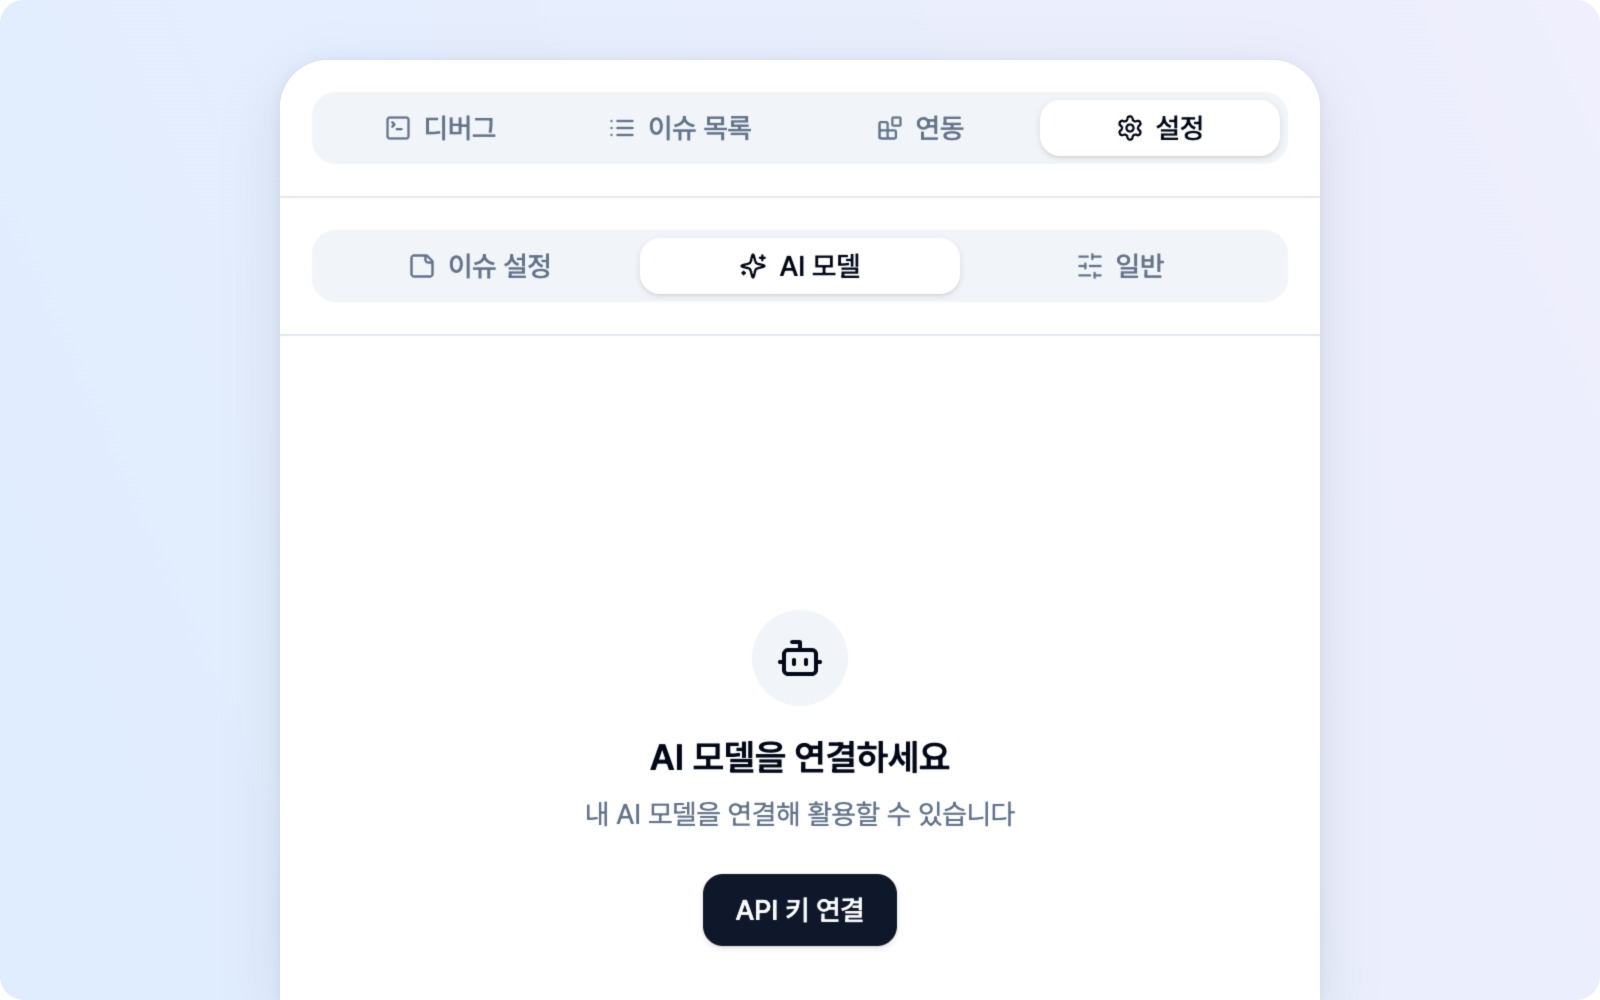
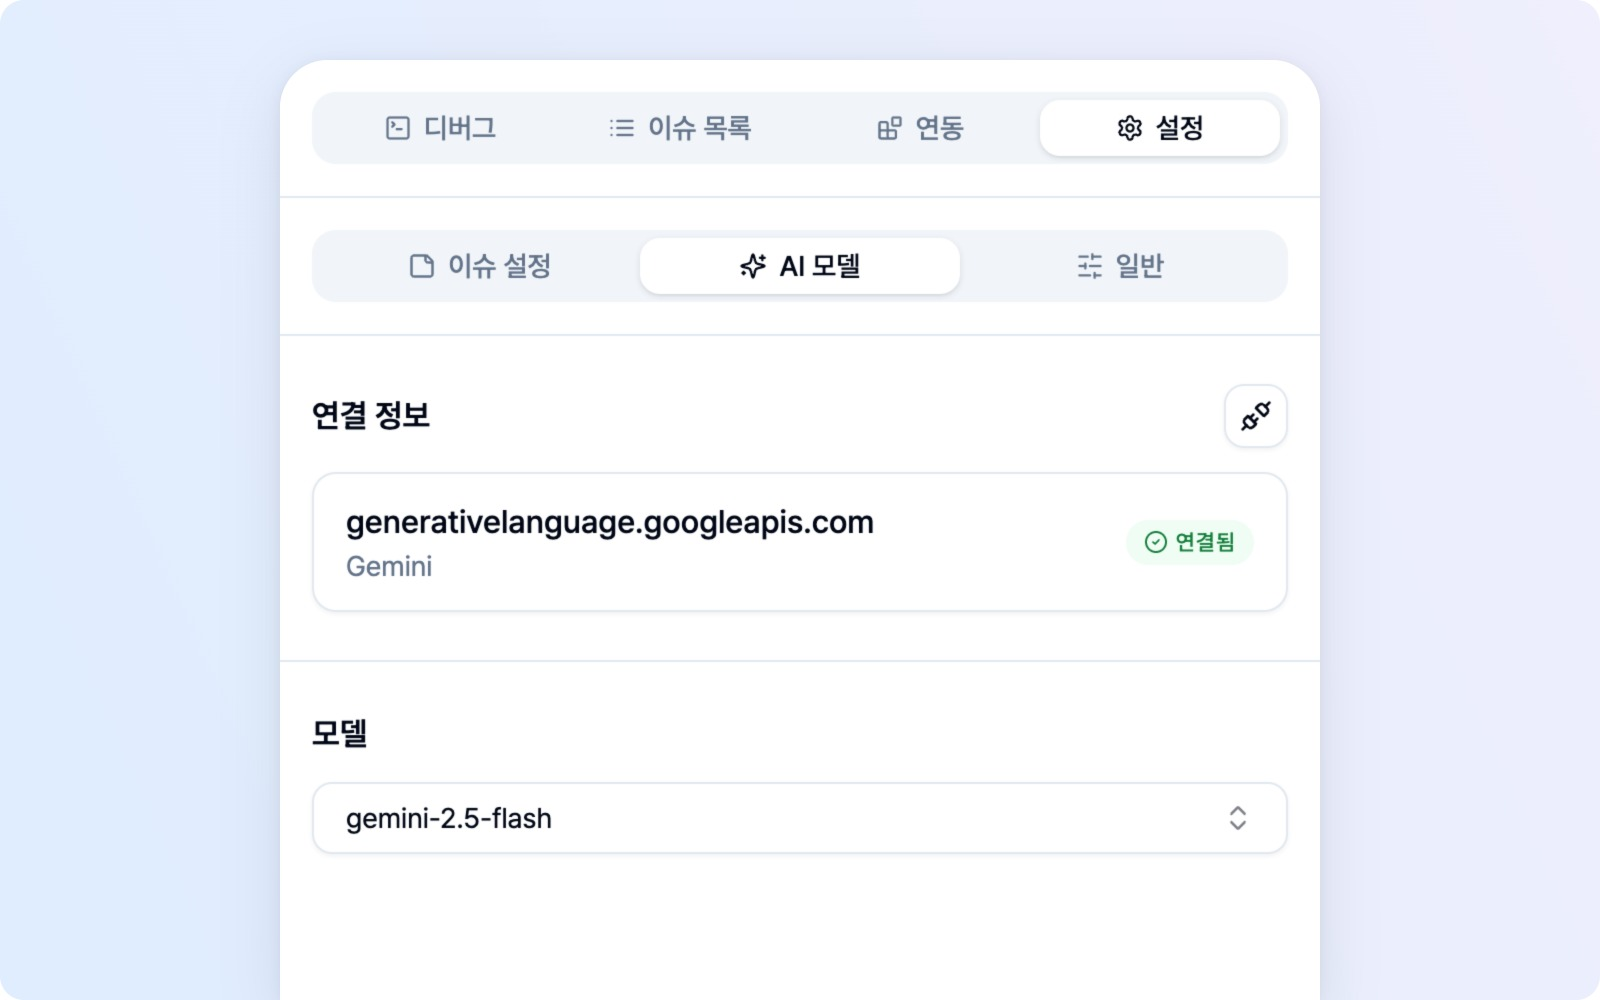
docs(guide): recapture the ko AI settings shot with a provider connected
settings-ai-1 was showing the empty "connect a model" state. With a BYOK
Gemini endpoint attached it now shows the connected card, which is what the
caption describes.

Chrome's built-in model never became usable: availability stayed on
downloading for hours with downloadprogress pinned at 0 and create()
timing out, so the manual now says to use BYOK instead of waiting for it.

The three AI banner shots are still open. The banner itself renders fine
now; what fails is the capture plumbing, and both causes are recorded:
the banner's DOM lookup returns 0, and DOM masking is reverted by React
re-rendering before the screenshot lands.

Also warns against running ko and en in parallel sessions, since locale and
the issue list live in shared profile storage.

diff --git a/guide/SHOOTING.md b/guide/SHOOTING.md
@@ -152,7 +152,7 @@ Aside 세션에서:
 
 ## 8. 진행 상태 / 핸드오프 (2026-08-09 기준)
 
-### ko: 60 / 72 — 자동 촬영분 완료
+### ko: 61 / 72 — 자동 촬영분 완료
 
 커밋 6개로 반영됨: `42f36e8b`(49장) → `39d6223b`(log viewer 5) → `8fe17834`(이슈 목록·플랫폼 3) → `9af6d7c3`(웹스토어·플랫폼 그리드 2) → `c15d597a`(핸드오프) → `fc8c1516`(페이지 캡처 진행 1).
 
@@ -161,7 +161,9 @@ Aside 세션에서:
 | 에셋 | 사유 |
 |---|---|
 | `video-record-2~5`, `video-replay-3`, `video-issue-1~6` (11장) | §6대로 **수동 촬영 전용**. `tabCapture`·30초 리플레이 모두 실제 user gesture를 요구해 합성 클릭(`click()`·`click({force:true})` 모두)으로 시작되지 않는다 |
-| `element-issue-4`, `screenshot-issue-4`, `settings-ai-2` (3장, `video-issue-4` 중복) | AI 배너가 떠야 하는 컷. Chrome 내장 AI가 계속 `downloading`이고 `downloadprogress`가 0%에서 안 움직였다(다운로드를 시작한 페이지가 닫히면 진행 이벤트를 못 받는다). **BYOK 키를 하나 꽂으면 즉시 배너가 떠 바로 촬영 가능**하다 — 단 배지에 프로바이더명이 노출된다 |
+| `element-issue-4`, `screenshot-issue-4`, `settings-ai-2` (3장, `video-issue-4` 중복) | AI 배너 컷. **BYOK(Gemini)를 꽂아 배너 자체는 뜨는 것을 확인**했다(`Gemini AI로 초안을 작성해보세요 / AI 초안 작성`, `settings-ai-1`은 연결 상태로 재촬영 완료). 남은 문제는 촬영 배관 둘 — ① 배너 DOM 좌표 탐색이 `0`을 반환해 밴드를 못 잡는다(텍스트가 중첩돼 있어 `children.length` 필터로는 못 집는다. `getByRole`/`data-testid`로 잡을 것) ② **마스킹이 리렌더로 날아간다** — 텍스트 노드를 바꿔도 React가 다시 그리면 원복되므로, viewport 확정 후 리렌더가 멎은 뒤 마스킹하고 **즉시** 스크린샷을 찍어야 한다 |
+
+> Chrome 내장 AI(Gemini Nano)는 몇 시간째 `downloading`에서 `downloadprogress`가 0으로 고정이었고 `create()`도 20초 타임아웃이었다. `chrome://on-device-internals`는 Aside가 내부 디버깅 페이지를 막아 확인 불가. **내장 AI를 기다리지 말고 BYOK를 쓴다.**
 
 `video-record-5`만 아직 `dummy.jpg` placeholder다. 나머지 71자리는 실제 이미지.
 
@@ -188,6 +190,10 @@ await chrome.windows.create({ tabId: pt.id, type: "popup", width: 620, height: 9
 await comp._sendToTarget("Emulation.setDeviceMetricsOverride",
                          { width: 1600, height: 1000, deviceScaleFactor: 1 });
 ```
+
+### 동시 세션 주의
+
+**ko/en을 두 세션에서 병행하지 마라.** 확장 설정(`bugshot-app-settings`의 `locale`)과 이슈 목록(`bugshot-issues`)이 **같은 프로필의 공유 스토리지**다. en 세션이 로케일을 바꾸면 진행 중인 ko 촬영이 조용히 영문 화면으로 찍히고, 이슈 목록을 비우면 ko 목록 컷이 빈 화면이 된다(실제로 이 세션 중 `bugshot-issues`가 0건으로 비워지는 것을 관측했다). 로케일별로 순차 진행하거나, 촬영 직전 `locale`을 매번 확인할 것.
 
 ### 남은 잔여 이슈
 
